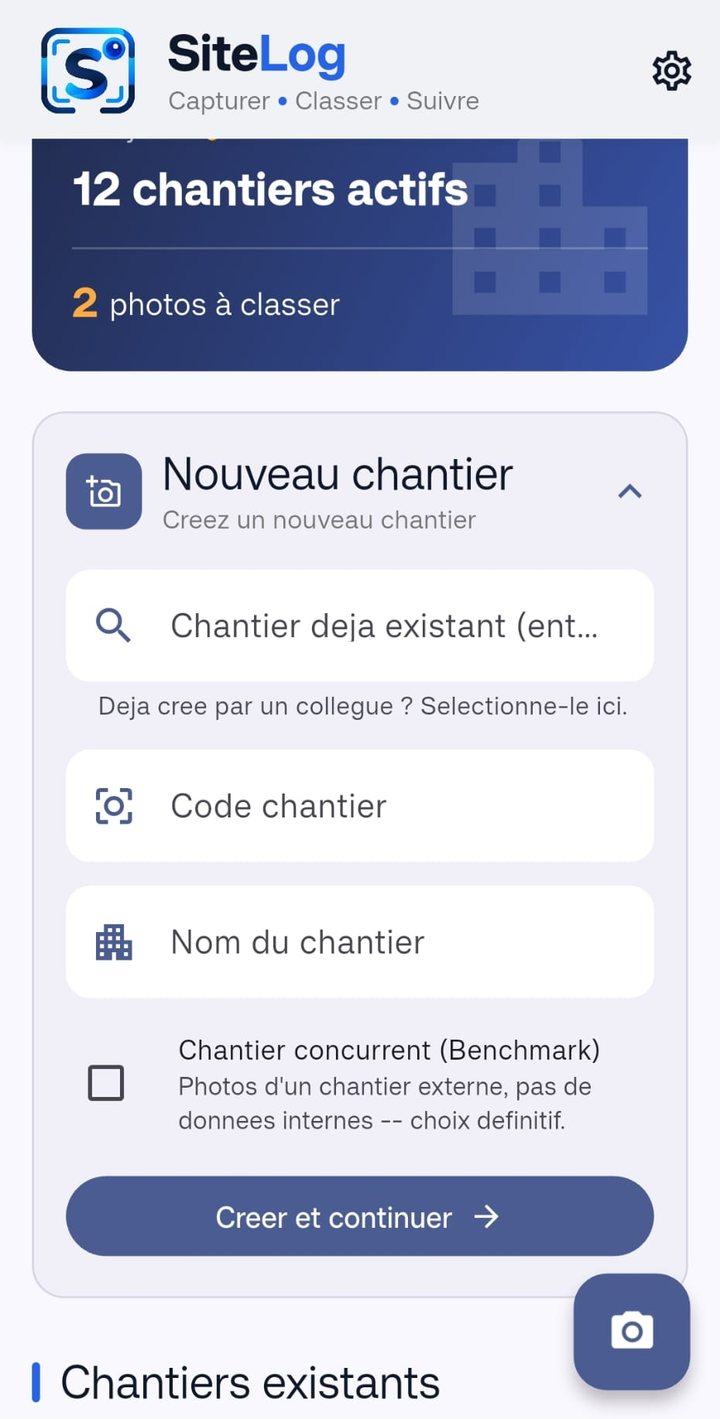
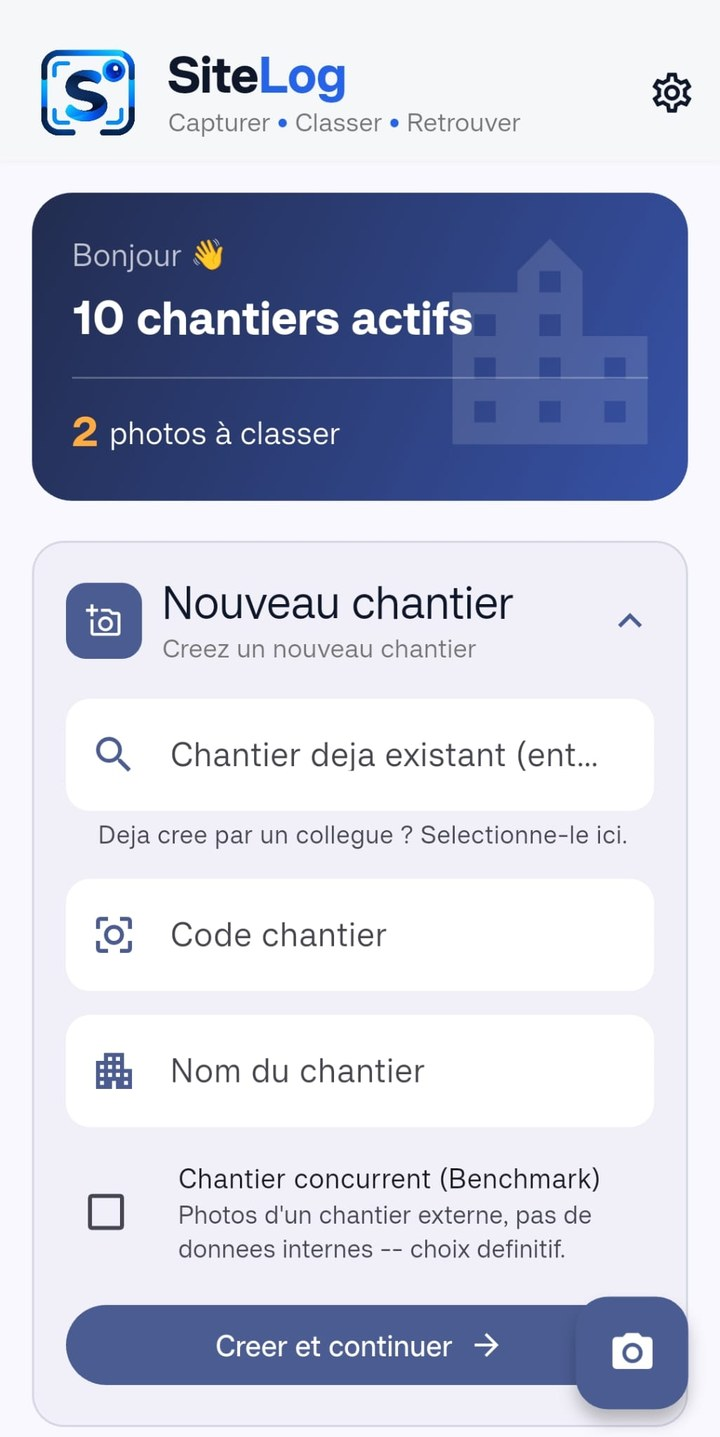
Retrouver partout, nouvelle capture nouveau chantier

diff --git a/index.html b/index.html
@@ -102,7 +102,7 @@
 <p>Avant de commencer, on prépare le chantier : les catégories et les éléments à photographier. Sur place, chaque photo prise est associée à son chantier et à son ouvrage, sans formulaire à remplir.</p>
 </div>
 <div class="panel-img">
-<img class="phone" src="/assets/mobile-nouveau-chantier.jpg" width="720" height="1419" loading="lazy" alt="Écran mobile de création d'un chantier : code, nom et chantier existant">
+<img class="phone" src="/assets/mobile-nouveau-chantier.jpg?v=8" width="720" height="1437" loading="lazy" alt="Écran mobile de création d'un chantier : code, nom et chantier existant">
 <img class="phone" src="/assets/mobile-preparation.jpg?v=7" width="720" height="1437" loading="lazy" alt="Écran mobile de préparation du chantier : catégories à voir et éléments prévus">
 </div>
 </div>
@@ -125,7 +125,7 @@
 <p>Chantier, ouvrage, élément, auteur : tapez ce que vous cherchez, la photo apparaît avec tout son contexte.</p>
 </div>
 <div class="panel-img" style="flex:1.6 1 420px">
-<img class="screen" src="/assets/pc-recherche.jpg" width="1600" height="986" loading="lazy" alt="SiteLog PC : recherche « mur clt » et photos classées de plusieurs chantiers">
+<img class="screen" src="/assets/pc-recherche.jpg?v=8" width="1600" height="986" loading="lazy" alt="SiteLog PC : recherche « mur clt » et photos classées de plusieurs chantiers">
 </div>
 </div>
 </div>
@@ -157,14 +157,14 @@
 </div>
 <svg class="flow-arrow" aria-hidden="true" width="32" height="32" viewBox="0 0 24 24" fill="none" stroke="currentColor" stroke-width="2" stroke-linecap="round" stroke-linejoin="round"><path d="M5 12h14M13 6l6 6-6 6"/></svg>
 <div class="flow-step">
-<div class="vis"><img src="/assets/pc-recherche.jpg" width="1600" height="986" loading="lazy" alt="Recherche « mur clt » dans SiteLog PC" style="object-position:left top"></div>
+<div class="vis"><img src="/assets/pc-recherche.jpg?v=8" width="1600" height="986" loading="lazy" alt="Recherche « mur clt » dans SiteLog PC" style="object-position:left top"></div>
 <p class="cap"><b>3 · Au bureau</b>Elle se retrouve en un mot, sur tous les chantiers.</p>
 </div>
 </div>
 
 <div class="demo">
 <div class="demo-img">
-<img src="/assets/pc-recherche.jpg" width="1600" height="986" loading="lazy" alt="SiteLog PC : recherche « mur clt », résultats issus de plusieurs chantiers et photo d'un bâtiment en CLT ouverte, avec le menu Valider pour usage commercial">
+<img src="/assets/pc-recherche.jpg?v=8" width="1600" height="986" loading="lazy" alt="SiteLog PC : recherche « mur clt », résultats issus de plusieurs chantiers et photo d'un bâtiment en CLT ouverte, avec le menu Valider pour usage commercial">
 </div>
 <div class="keeps">
 <p style="font-size:17px;font-weight:700;color:#fff;display:block">Ce que chaque photo conserve</p>
